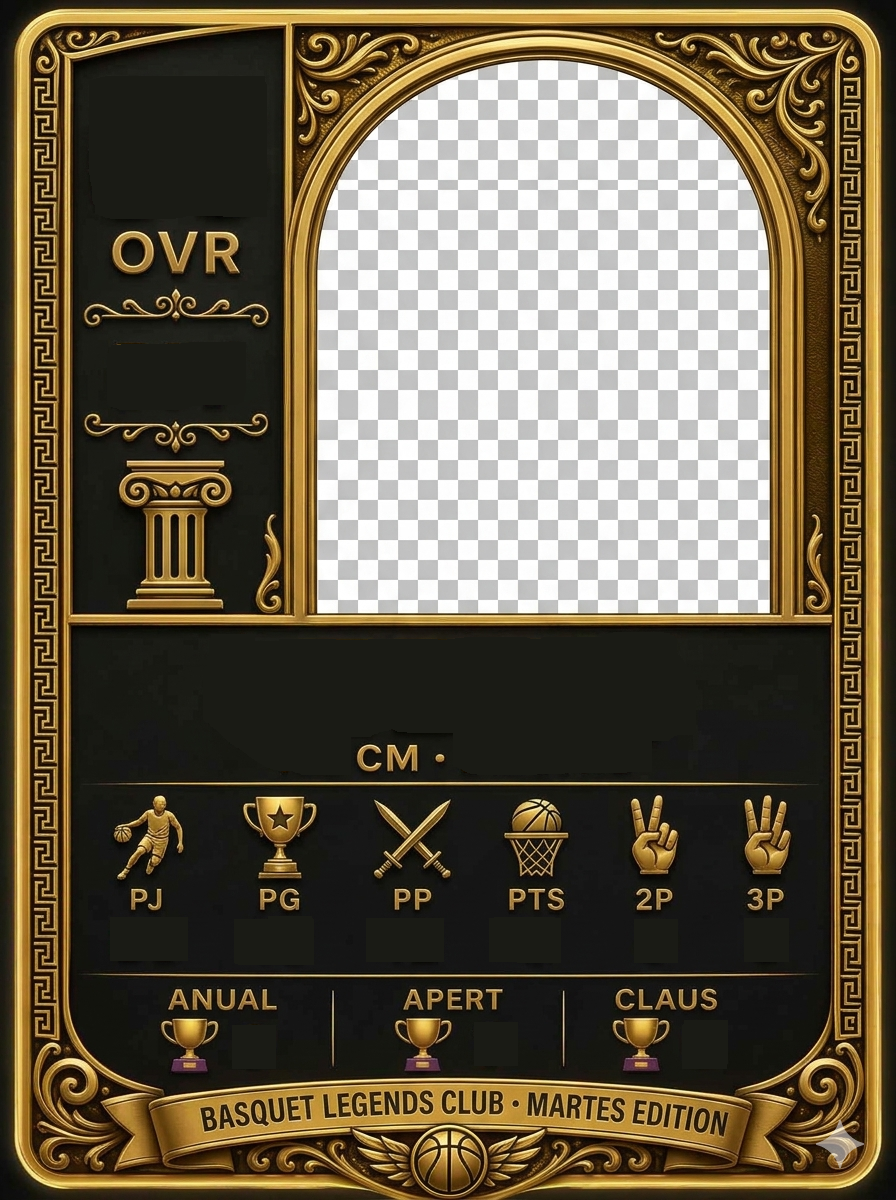
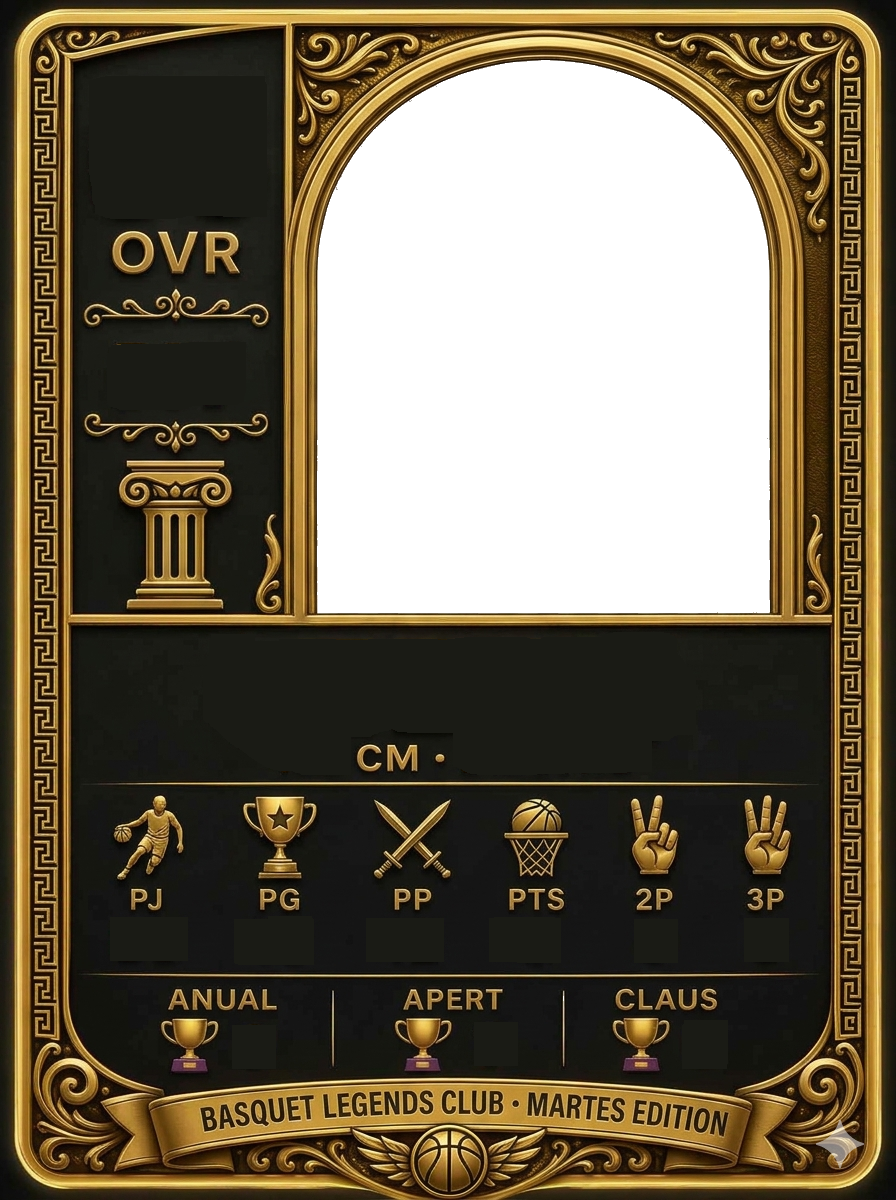
Tarjetas Legends: ventana transparente + calibración medida del marco
- Se procesa legends-frame.png para volver transparente la ventana del arco
  (la foto se asoma con la forma exacta del arco).
- Coordenadas de cada valor calibradas midiendo el PNG real (no a ojo):
  ventana L35-R86, columnas de stats 16.5/31/46/60/73/85.4, copas 30/56/82,
  altura y mano flanqueando el "CM ·", OVR/posición/nombre ubicados.

Claude-Session: https://claude.ai/code/session_01SR3ZwGgXVt6PrrJykXRkQt

Changed region(s): [[0.3438, 0.0308, 0.875, 0.5242]]

diff --git a/src/index.css b/src/index.css
@@ -4749,32 +4749,33 @@ html.home-locked .app__header {
   container-type: inline-size;
   color: #fcebb0;
 
-  /* Foto dentro del arco */
-  --photo-left: 33%;
-  --photo-top: 5%;
-  --photo-w: 55%;
-  --photo-h: 43%;
+  /* Foto dentro del arco (ventana L35–R86 / T5–B51) */
+  --photo-left: 34%;
+  --photo-top: 4%;
+  --photo-w: 53%;
+  --photo-h: 48%;
   /* OVR (número) */
-  --ovr-x: 18%;
-  --ovr-y: 12.5%;
-  --ovr-size: 14cqw;
+  --ovr-x: 19%;
+  --ovr-y: 11%;
+  --ovr-size: 12cqw;
   /* Posición */
-  --pos-x: 18%;
-  --pos-y: 38%;
-  --pos-size: 8.5cqw;
+  --pos-x: 19%;
+  --pos-y: 34%;
+  --pos-size: 8cqw;
   /* Nombre */
   --name-x: 50%;
-  --name-y: 56.5%;
-  --name-size: 12cqw;
-  /* Línea altura · mano */
-  --bio-x: 50%;
+  --name-y: 57%;
+  --name-size: 11cqw;
+  /* Línea altura · mano (flanquean el "CM ·" del marco, en ~44%) */
   --bio-y: 64.5%;
-  --bio-size: 5cqw;
+  --bio-size: 4.6cqw;
+  --h-right: 64%;
+  --hand-left: 52%;
   /* Fila de 6 números */
-  --nums-top: 83%;
-  --nums-size: 7cqw;
+  --nums-y: 83%;
+  --nums-size: 6.5cqw;
   /* Fila de 3 copas */
-  --cups-top: 92%;
+  --cups-y: 91.5%;
   --cups-size: 6cqw;
 }
 .legcard--tap {
@@ -4804,9 +4805,10 @@ html.home-locked .app__header {
 .legcard__ovr,
 .legcard__pos,
 .legcard__name,
-.legcard__bio,
-.legcard__nums span,
-.legcard__cups span {
+.legcard__h,
+.legcard__hand,
+.legcard__num,
+.legcard__cup {
   position: absolute;
   z-index: 3;
   font-weight: 900;
@@ -4815,7 +4817,6 @@ html.home-locked .app__header {
   -webkit-background-clip: text;
   background-clip: text;
   color: transparent;
-  text-shadow: 0 1px 1px rgba(0, 0, 0, 0.35);
   filter: drop-shadow(0 1px 0 rgba(60, 40, 6, 0.6));
 }
 .legcard__ovr {
@@ -4839,45 +4840,30 @@ html.home-locked .app__header {
   letter-spacing: 0.01em;
   white-space: nowrap;
 }
-.legcard__bio {
-  left: var(--bio-x);
+/* Altura y mano flanquean el "CM ·" que ya viene en el marco. */
+.legcard__h {
+  right: var(--h-right);
   top: var(--bio-y);
-  transform: translate(-50%, -50%);
+  transform: translateY(-50%);
   font-size: var(--bio-size);
   font-weight: 800;
-  letter-spacing: 0.03em;
-  white-space: nowrap;
 }
-/* Filas (6 números y 3 copas): grilla a lo ancho, cada valor centrado en su
-   columna para caer sobre la caja correspondiente. */
-.legcard__nums,
-.legcard__cups {
-  position: absolute;
-  left: 0;
-  right: 0;
-  z-index: 3;
-  display: grid;
-  pointer-events: none;
-}
-.legcard__nums {
-  top: var(--nums-top);
-  padding: 0 7%;
-  grid-template-columns: repeat(6, 1fr);
-}
-.legcard__cups {
-  top: var(--cups-top);
-  padding: 0 9%;
-  grid-template-columns: repeat(3, 1fr);
-}
-.legcard__nums span {
-  position: static;
+.legcard__hand {
+  left: var(--hand-left);
+  top: var(--bio-y);
   transform: translateY(-50%);
+  font-size: var(--bio-size);
+  font-weight: 800;
+}
+.legcard__num {
+  top: var(--nums-y);
+  transform: translate(-50%, -50%);
   text-align: center;
   font-size: var(--nums-size);
 }
-.legcard__cups span {
-  position: static;
-  transform: translateY(-50%);
+.legcard__cup {
+  top: var(--cups-y);
+  transform: translate(-50%, -50%);
   text-align: center;
   font-size: var(--cups-size);
 }

diff --git a/src/components/Tarjetas.tsx b/src/components/Tarjetas.tsx
@@ -246,6 +246,10 @@ function useFrameStatus() {
   return frameStatus;
 }
 
+// Centros X (en % del marco) medidos sobre el PNG.
+const NUM_X = [16.5, 31, 46, 60, 73, 85.4];
+const CUP_X = [30, 56, 82];
+
 function LegendCard({
   data,
   onClick,
@@ -275,19 +279,26 @@ function LegendCard({
       <div className="legcard__ovr">{data.ovr}</div>
       <div className="legcard__pos">{data.meta.position}</div>
       <div className="legcard__name">{data.name}</div>
-      <div className="legcard__bio">
-        {data.meta.heightCm} CM · {handLabel(data.meta.hand)}
-      </div>
-      <div className="legcard__nums">
-        {data.stats.map((s) => (
-          <span key={s.label}>{s.value}</span>
-        ))}
-      </div>
-      <div className="legcard__cups">
-        <span>{data.cups.anual}</span>
-        <span>{data.cups.apertura}</span>
-        <span>{data.cups.clausura}</span>
-      </div>
+      <div className="legcard__h">{data.meta.heightCm}</div>
+      <div className="legcard__hand">{handLabel(data.meta.hand)}</div>
+      {data.stats.map((s, i) => (
+        <span
+          key={s.label}
+          className="legcard__num"
+          style={{ left: `${NUM_X[i]}%` }}
+        >
+          {s.value}
+        </span>
+      ))}
+      {[data.cups.anual, data.cups.apertura, data.cups.clausura].map((v, i) => (
+        <span
+          key={i}
+          className="legcard__cup"
+          style={{ left: `${CUP_X[i]}%` }}
+        >
+          {v}
+        </span>
+      ))}
     </div>
   );
 }